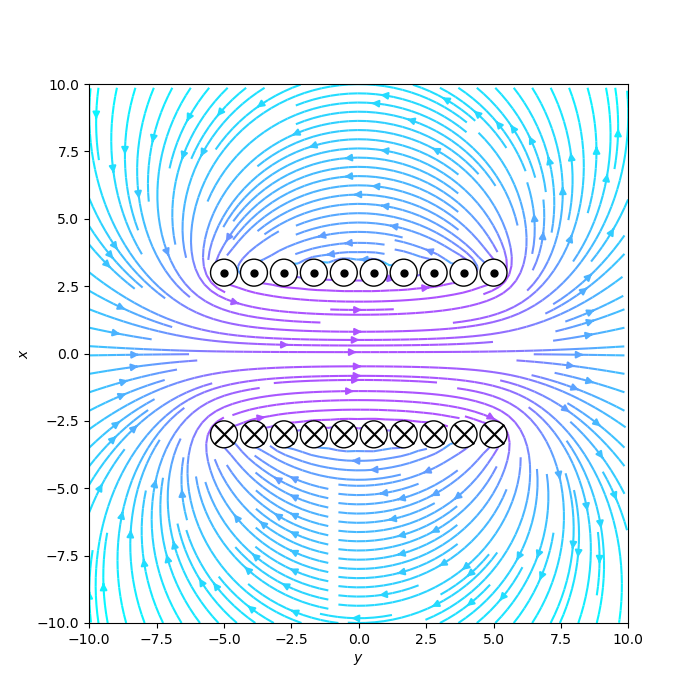
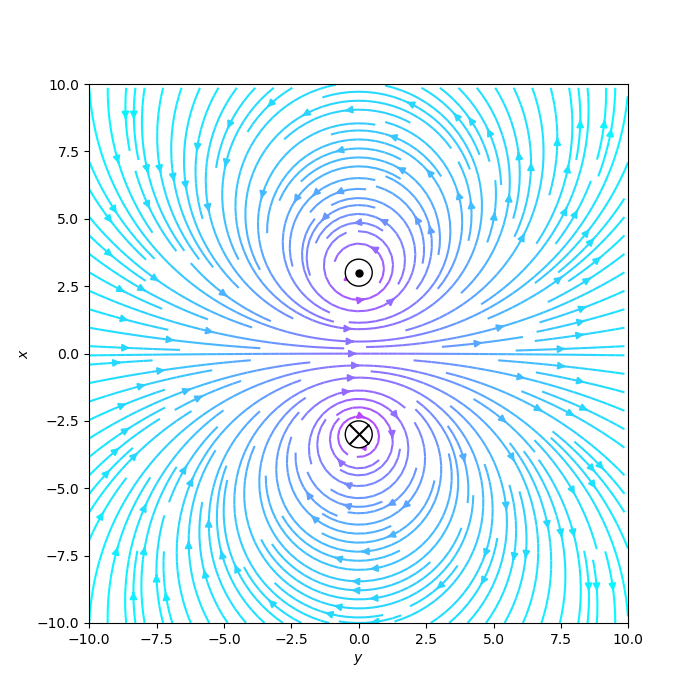
EBFieldSolver

Changed region(s): [[0.12, 0.12, 0.9, 0.9]]

diff --git a/src/MagneticField.py b/src/MagneticField.py
@@ -28,14 +28,27 @@ class Conductor:
             size = self.R * 400
 
         return plt.Circle(self.r0, self.R, edgecolor=I_color, facecolor='white'), \
-            [self.r0[0], self.r0[1], size, I_color, I_direction]
-
+               [self.r0[0], self.r0[1], size, I_color, I_direction]
 
     def compute_magnetic_field(self, x, y):
         mag = self.const * (self.I / np.hypot(x - self.r0[0], y - self.r0[1]))
         Bx = mag * (-np.sin(np.arctan2(x - self.r0[0], y - self.r0[1])))
         By = mag * (np.cos(np.arctan2(x - self.r0[0], y - self.r0[1])))
         return By, Bx
+
+
+conductors = []
+# single wire
+# conductors.append(Conductor(50E-3, [0.0, 0.0]))
+
+# conductor loop
+conductors.append(Conductor(-1.0, [0.0, 3.0]))
+conductors.append(Conductor(1.0, [0.0, -3.0]))
+
+# coil
+# for i in np.linspace(-5, 5, 10):
+#     conductors.append(Conductor(-1.0, [i, 3.0]))
+#     conductors.append(Conductor(1.0, [i, -3.0]))
 
 
 def compute_total_field(x, y, conductors):
@@ -57,40 +70,29 @@ def compute_bodies(conductors):
     return conductor_bodies
 
 
-conductors = []
-# single wire
-# conductors.append(Conductor(1.0, [0.0, 0.0]))
+if __name__ == "__main__":
+    nx, ny = 100, 100
+    x, y = np.meshgrid(np.linspace(-10, 10, nx), np.linspace(-10, 10, ny))
 
-# conductor loop
-# conductors.append(Conductor(-1.0, [0.0, 2.0]))
-# conductors.append(Conductor(1.0, [0.0, -2.0]))
+    fig = plt.figure(figsize=(7, 7))
+    ax = fig.add_subplot(111)
+    ax.set(xlim=(-10, 10), ylim=(-10, 10))
+    ax.set_xlabel(r'$y$')
+    ax.set_ylabel(r'$x$')
+    ax.set_aspect('equal')
 
-# coil
-for i in np.linspace(-5, 5, 10):
-    conductors.append(Conductor(-1.0, [i, 3.0]))
-    conductors.append(Conductor(1.0, [i, -3.0]))
+    Bx, By = compute_total_field(x, y, conductors)
+    # Bmax = np.hypot(Bx, By)
+    # ax.quiver(x, y, Bx, By, zorder=1)
 
-nx, ny = 100, 100
-x, y = np.meshgrid(np.linspace(-10, 10, nx), np.linspace(-10, 10, ny))
+    B = ax.streamplot(x, y, Bx, By, zorder=1, color=np.log(np.hypot(Bx, By)), cmap='cool', density=2)
+    # fig.colorbar(B.lines, ax=ax)
+    total_bodies = compute_bodies(conductors)
+    for body in total_bodies:
+        ax.add_patch(body[0])
+        ax.scatter(body[1][0], body[1][1], body[1][2], body[1][3], body[1][4], zorder=2)
 
-fig = plt.figure(figsize=(7, 7))
-ax = fig.add_subplot(111)
-ax.set(xlim=(-10, 10), ylim=(-10, 10))
-ax.set_xlabel(r'$y$')
-ax.set_ylabel(r'$x$')
-ax.set_aspect('equal')
-
-Bx, By = compute_total_field(x, y, conductors)
-# Bmax = np.hypot(Bx, By)
-# ax.quiver(x, y, Bx, By, zorder=1)
-
-ax.streamplot(x, y, Bx, By, zorder=1, color=np.log(np.hypot(Bx, By)), cmap='cool', density=2)
-total_bodies = compute_bodies(conductors)
-for body in total_bodies:
-    ax.add_patch(body[0])
-    ax.scatter(body[1][0], body[1][1], body[1][2], body[1][3], body[1][4], zorder=2)
-
-plt.savefig('img/b_field.png')
-plt.show()
-plt.close(fig)
-sys.exit(0)
+    plt.savefig('img/b_field.png')
+    plt.show()
+    plt.close(fig)
+    sys.exit(0)

diff --git a/src/ElectricField.py b/src/ElectricField.py
@@ -99,32 +99,33 @@ def compute_bodies(charges):
     return charge_bodies
 
 
-nx, ny = 100, 100
-x, y = np.meshgrid(np.linspace(-5, 5, nx), np.linspace(-5, 5, ny))
+if __name__ == "__main__":
+    nx, ny = 100, 100
+    x, y = np.meshgrid(np.linspace(-5, 5, nx), np.linspace(-5, 5, ny))
 
-fig = plt.figure(figsize=(7, 7))
-ax = fig.add_subplot(111)
-ax.set(xlim=(-5, 5), ylim=(-5, 5))
-ax.set_xlabel(r'$x$')
-ax.set_ylabel(r'$y$')
-ax.set_aspect('equal')
+    fig = plt.figure(figsize=(7, 7))
+    ax = fig.add_subplot(111)
+    ax.set(xlim=(-5, 5), ylim=(-5, 5))
+    ax.set_xlabel(r'$x$')
+    ax.set_ylabel(r'$y$')
+    ax.set_aspect('equal')
 
-Ex, Ey = compute_total_field(x, y, charges)
-# norm_field = norm_total_field(x, y, charges)
-# ax.quiver(x, y, field_x / norm_field, field_y / norm_field, color='black', scale=25)
-ax.streamplot(x, y, Ex, Ey, color='black')
+    Ex, Ey = compute_total_field(x, y, charges)
+    # norm_field = norm_total_field(x, y, charges)
+    # ax.quiver(x, y, field_x / norm_field, field_y / norm_field, color='black', scale=25)
+    ax.streamplot(x, y, Ex, Ey, color='black')
 
-total_potentials = compute_total_potentials(x, y, charges)
-z = np.linspace(np.min(total_potentials) / 10, np.max(total_potentials) / 10, 10)
-# ax.contour(x, y, total_potentials, z, colors='k')
-ax.contourf(x, y, total_potentials, z, cmap='bwr')
-# ax.clabel(pots, inline=True, fontsize=10)
+    total_potentials = compute_total_potentials(x, y, charges)
+    z = np.linspace(np.min(total_potentials) / 10, np.max(total_potentials) / 10, 10)
+    # ax.contour(x, y, total_potentials, z, colors='k')
+    ax.contourf(x, y, total_potentials, z, cmap='bwr')
+    # ax.clabel(pots, inline=True, fontsize=10)
 
-total_bodies = compute_bodies(charges)
-for body in total_bodies:
-    ax.add_patch(body)
+    total_bodies = compute_bodies(charges)
+    for body in total_bodies:
+        ax.add_patch(body)
 
-plt.savefig('img/e_field.png')
-plt.show()
-plt.close(fig)
-sys.exit(0)
+    plt.savefig('img/e_field.png')
+    plt.show()
+    plt.close(fig)
+    sys.exit(0)

diff --git a/src/HertzDipole.py b/src/HertzDipole.py
@@ -14,20 +14,23 @@ epsilon0 = 8.85 * 1E-12
 def hertz_dipole(x, y, z, p, omega, t):
   r = np.array([x, y, z])
   r_norm = np.linalg.norm(r)
+  r = r_norm * r
   r_cross_p = np.cross(r, p)
   rcrossp_cross_r = np.cross(r_cross_p, r)
   r_dot_p = np.dot(3 * r, p)
   r_dot_rdotp = np.dot(r, r_dot_p) - p
 
-  c1 = (1 / (4 * np.pi * epsilon0))
-  c2 = (omega**2 / (c**2 * r_norm))
-  c3 = 1 / r_norm ** 3
-  c4 = ((1j * omega) / (c * r_norm**2))
-  c5 = (1j * omega * r_norm) / c
-  c6 = -1j * omega * t
+  c1 = (omega**3 / (4 * np.pi * epsilon0 * c**3))
+  # c2 = (c / (omega * r_norm))
+  c3 = (omega * r_norm) / c
+  c4 = 1 / c3
+  c5 = 1 / c3**3
+  c6 = 1j / c3**2
+  c7 = 1j * (c3 - (omega * t))
 
-  E = c1 * (c2 * rcrossp_cross_r + ((c3 - c4) * r_dot_rdotp)) * np.exp(c5) * np.exp(c6)
-  E = np.sum(np.real(E)**2)
+  E = c1 * ((rcrossp_cross_r * c4) + r_dot_rdotp * (c5 - c6)) * np.exp(c7)
+  E = np.real(E)
+  E = np.sqrt(E[0]**2 + E[2]**2)
 
   return E
 
@@ -45,9 +48,13 @@ if __name__ == "__main__":
 
   frequency = 1000E6
   power = 1
-  norm_p = np.sqrt(12 * pi * c * power / (mu0 * (2 * pi * frequency) ** 4))
-  p = np.array([0, 0, norm_p])
+  # norm_p = np.sqrt(12 * pi * c * power / (mu0 * (2 * pi * frequency) ** 4))
+  # print(norm_p)
+  # p = np.array([0, 0, norm_p])
+
   omega = 2 * np.pi * frequency
+  p_0 = np.array([0.0, 0.0, 1.0])
+  p = p_0 * np.exp(-1j * omega * 0)
 
   nt = 100
   t0 = 1 / frequency / 10
@@ -59,11 +66,11 @@ if __name__ == "__main__":
 
   for i in range(len(x)):
     for k in range(len(z)):
-      S[i][k] = hertz_dipole(x[i], y[0], z[k], p, omega, 1E-10)
+      S[i][k] = hertz_dipole(x[i], y[0], z[k], p, omega, 1)
 
   plt.pcolor(x, z, S.T, cmap='hot')
   plt.xlabel(r'$x/$m')
   plt.ylabel(r'$z/$m')
-  plt.savefig('img/dipole.png')
+  plt.savefig('img/dipole1.png')
   plt.show()
   sys.exit(0)
